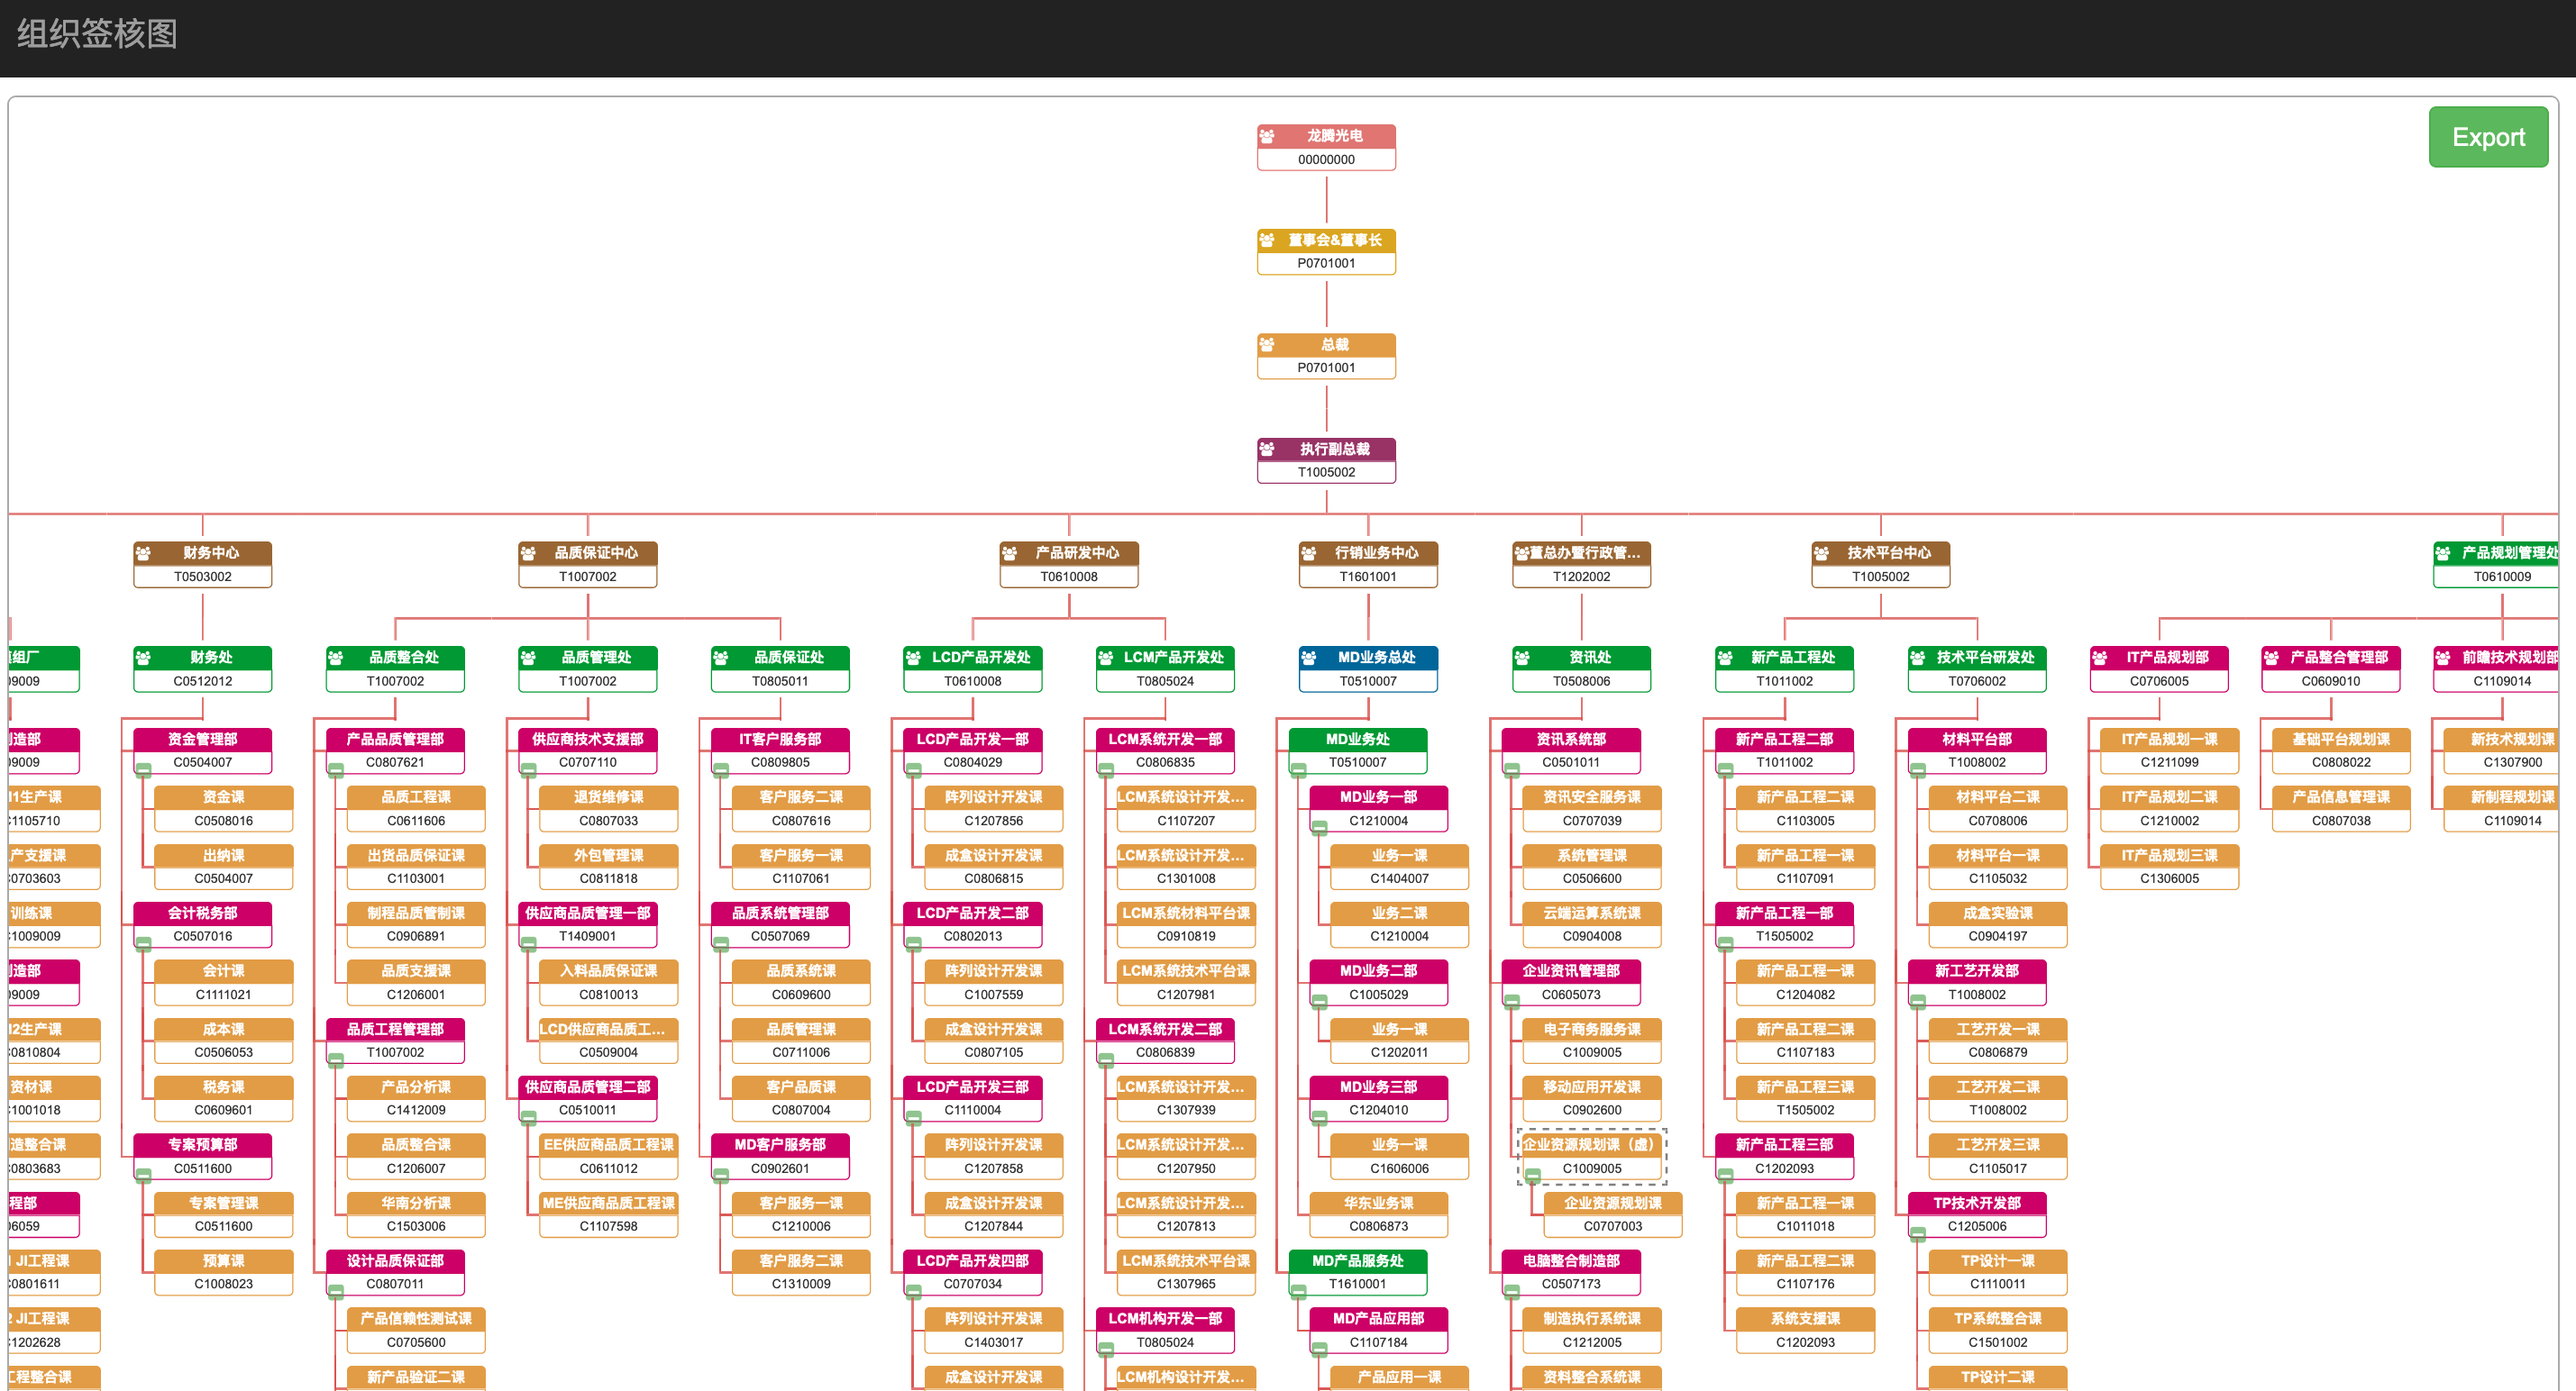
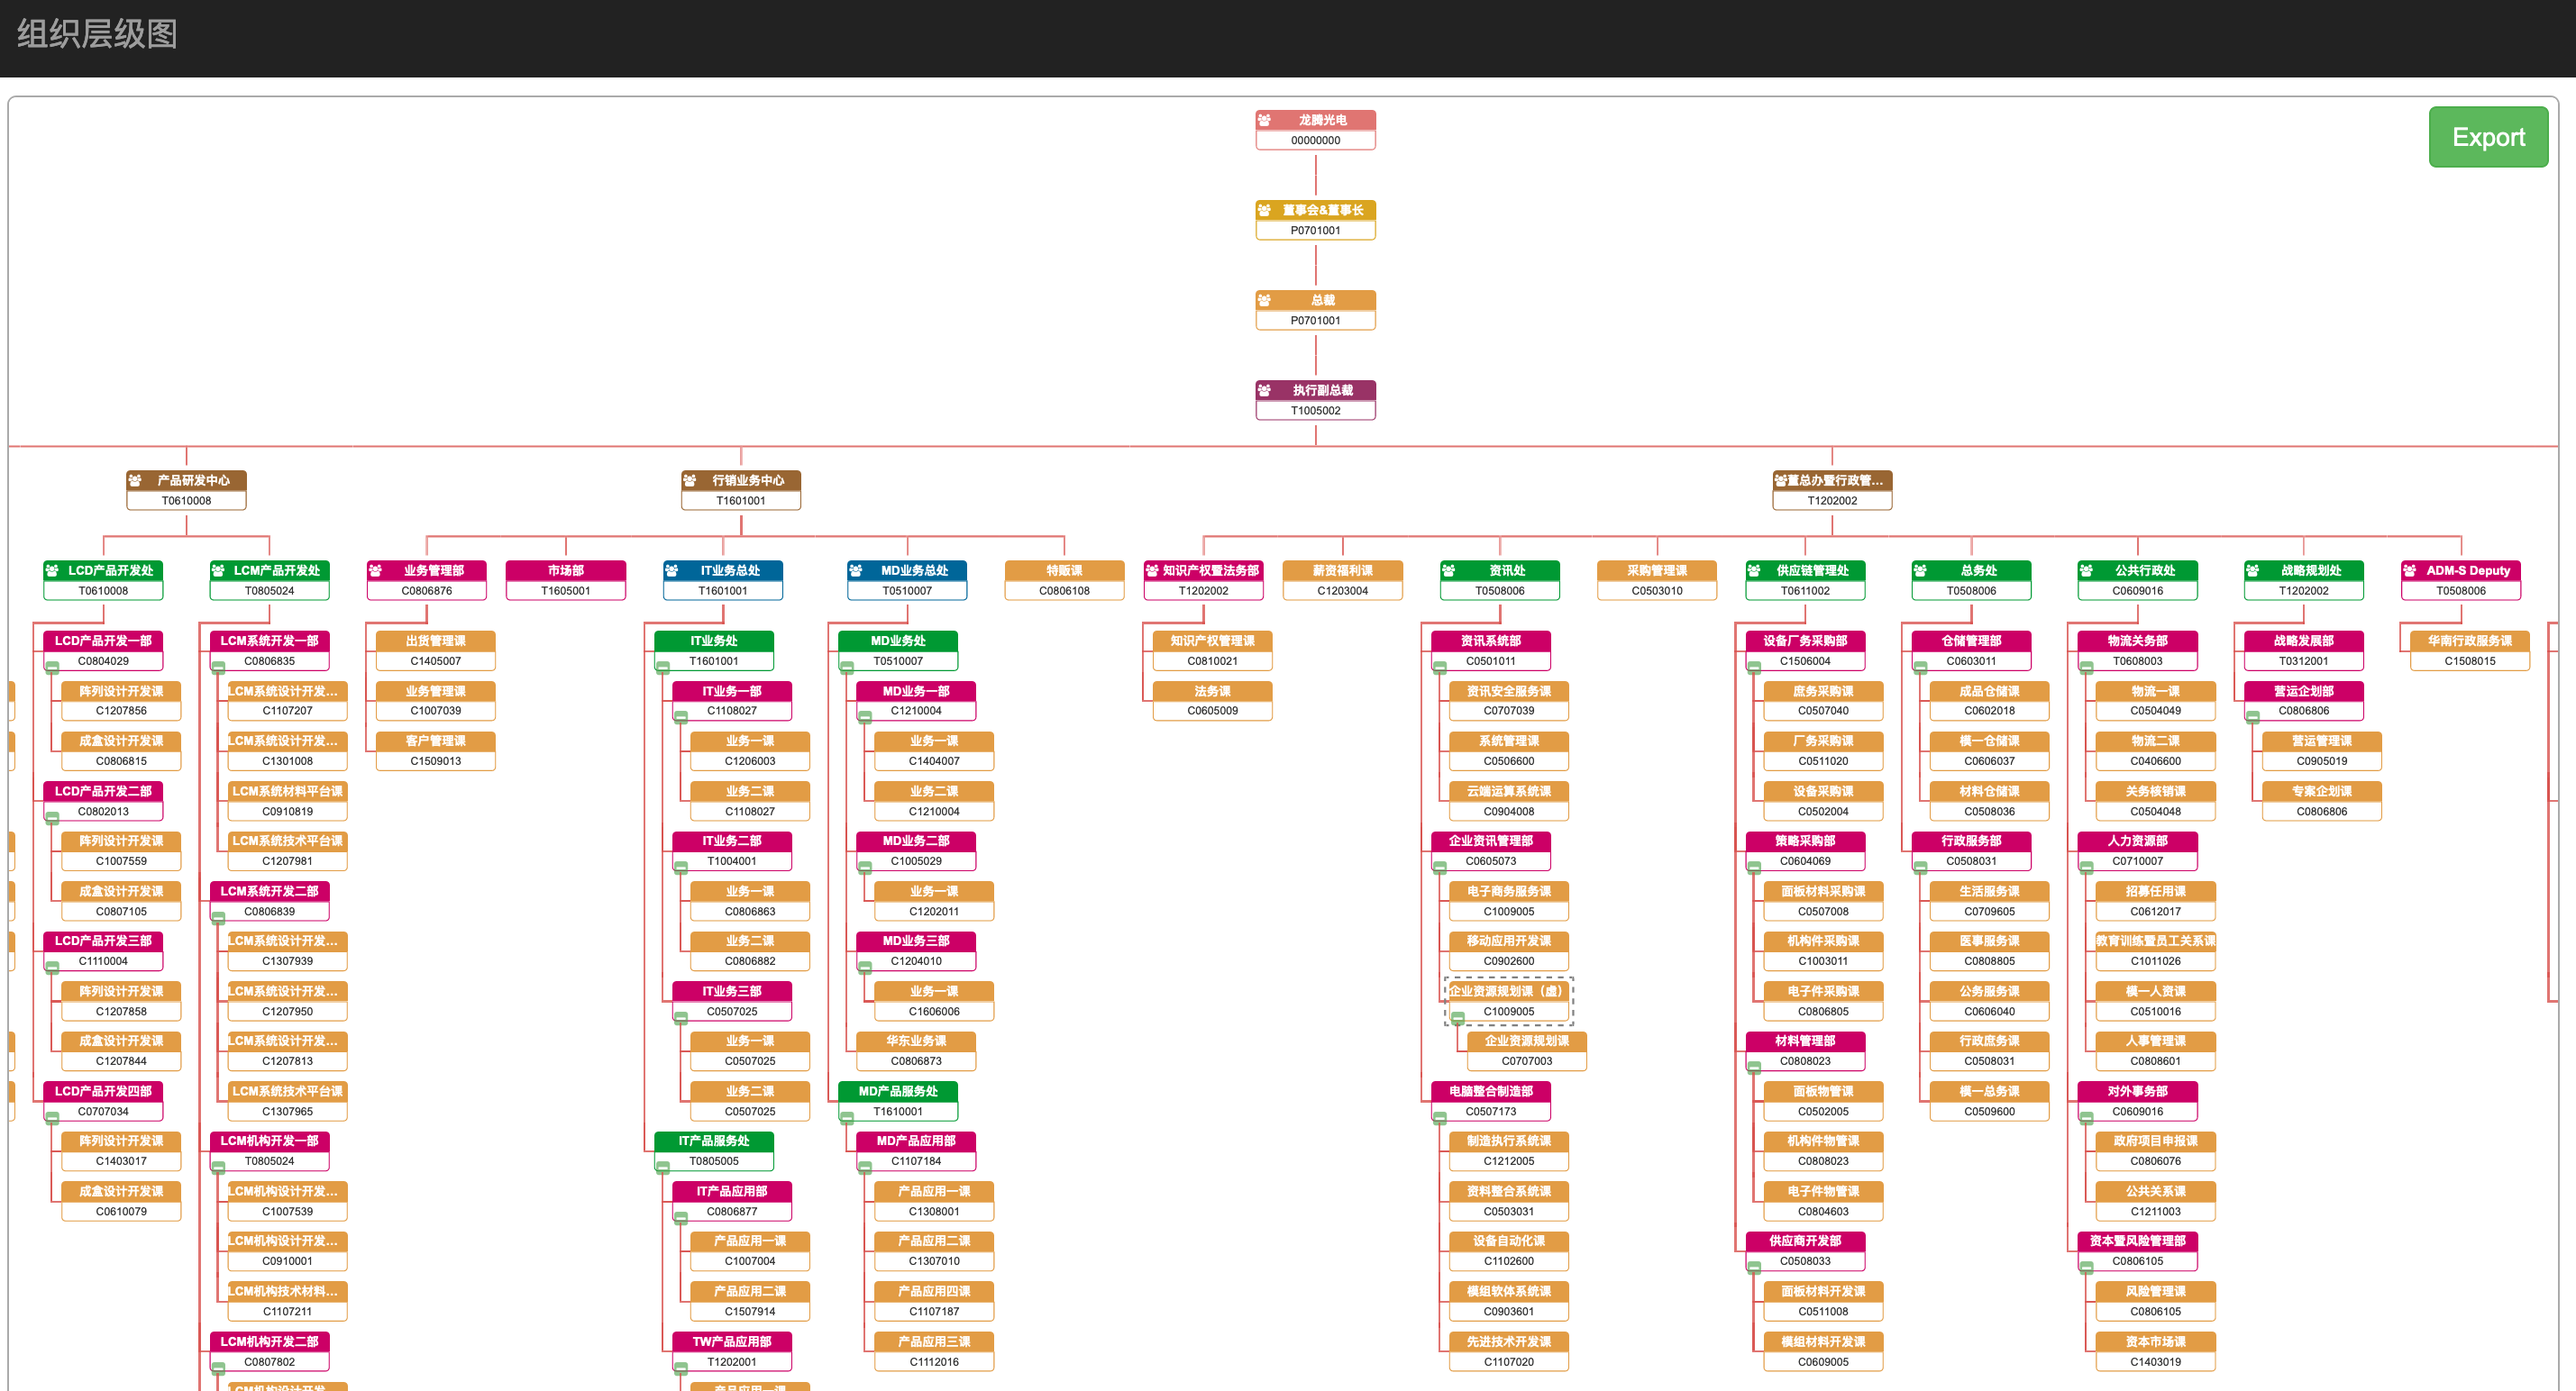
2019-09-25 提交

Changed region(s): [[0.0, 0.0622, 0.9965, 1.0], [0.0311, 0.0, 0.0623, 0.0311]]

diff --git a/README.md b/README.md
@@ -1,3 +1,3 @@
-# 组织加签管理
+# 组织层级签核管理
 
 ![avatar](orgChart.png)
